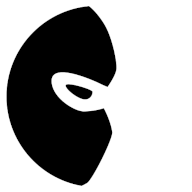
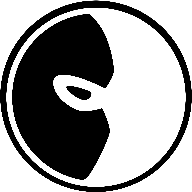
upd

diff --git a/src/views/Registration.vue b/src/views/Registration.vue
@@ -1,29 +1,31 @@
 <template>
     <div class="registration main-bg">
         
-        <div class="title">Speaky Ninja</div>
+        <div class="wrapper no-scrollbar">
+            <div class="title">Speaky.Ninja</div>
 
-        <div class="m-light m-gray mt-1">регистрация</div>
+            <div class="m-light m-gray mt-1">регистрация</div>
 
-        <div class="form">
-            <div class="row">
-                <div class="m-light ml-1 mb-1 m-size20">E-mail</div>
-                <input class="input" type="text" v-model="student.email">
+            <div class="form">
+                <div class="row">
+                    <div class="m-light ml-1 mb-1 m-size20">E-mail</div>
+                    <input class="input" type="text" v-model="student.email">
+                </div>
+
+                <div class="row">
+                    <div class="m-light ml-1 mb-1 m-size20">Пароль</div>
+                    <input class="input" type="password" v-model="student.password">
+                    <div class="m-red mt-2" v-if="error">{{ error }}</div>
+                </div>
+
+                <div class="btn green mt-1" @click="registration">Зарегистрироваться</div>
+                <div class="btn transparent mt-1" @click="login">Вход</div>
             </div>
 
-            <div class="row">
-                <div class="m-light ml-1 mb-1 m-size20">Пароль</div>
-                <input class="input" type="password" v-model="student.password">
-                <div class="m-red mt-2" v-if="error">{{ error }}</div>
+            <div class="mt-2 m-center">
+                <div class=" m-size16">Регистрируясь, вы принимаете</div>
+                <a href="https://speaky.ninja/agreement" target="_blank" class="m-underline m-size16">данные условия</a>
             </div>
-
-            <div class="btn green mt-1" @click="registration">Зарегистрироваться</div>
-            <div class="btn mt-1" @click="login">Вход</div>
-        </div>
-
-        <div class="mt-2 m-center">
-            <div class=" m-size16">Регистрируясь, вы принимаете</div>
-            <a href="https://speaky.ninja/agreement" target="_blank" class="m-underline m-size16">данные условия</a>
         </div>
         
     </div>
@@ -78,23 +80,33 @@
         align-items: center;
         justify-content: center;
         color: white;
-        padding: 60px 40px 20px 40px;
+        background-color: #272733 !important;
+        height: 100vh;
+        height: 100dvh;
         
-        .title {
-            font-size: 40px;
-            font-family: Light;
-            color: #ebebed;
-        }
-
-        .form {
-            margin-top: 80px;
+        .wrapper {
+            padding: 60px 40px 20px 40px;
+            width: 100%;
             display: flex;
             flex-direction: column;
-            gap: 20px;
-            width: 420px;
+            align-items: center;
 
-            .row {
-                .lable {
+            .title {
+                font-size: 40px;
+                font-family: Light;
+                color: #ebebed;
+            }
+
+            .form {
+                margin-top: 80px;
+                display: flex;
+                flex-direction: column;
+                gap: 20px;
+                width: 420px;
+
+                .row {
+                    .lable {
+                    }
                 }
             }
         }
@@ -102,9 +114,11 @@
 
     @media(max-width: 500px) {
         .registration {
-            .form {
-                min-width: 100%;
-                width: unset;
+            .wrapper {
+                .form {
+                    min-width: 100%;
+                    width: unset;
+                }
             }
 
         }

diff --git a/src/views/Login.vue b/src/views/Login.vue
@@ -1,29 +1,31 @@
 <template>
     <div class="login main-bg">
         
-        <div class="title">Speaky Ninja</div>
+        <div class="wrapper no-scrollbar">
+            <div class="title">Speaky.Ninja</div>
 
-        <div class="m-light m-gray mt-1">вход</div>
+            <div class="m-light m-gray mt-1">вход</div>
 
-        <div class="form">
-            <div class="row">
-                <div class="m-light ml-1 mb-1 m-size20">E-mail</div>
-                <input class="input" type="text" v-model="student.email">
+            <div class="form">
+                <div class="row">
+                    <div class="m-light ml-1 mb-1 m-size20">E-mail</div>
+                    <input class="input" type="text" v-model="student.email">
+                </div>
+
+                <div class="row">
+                    <div class="m-light ml-1 mb-1 m-size20">Пароль</div>
+                    <input class="input" type="password" v-model="student.password">
+                    <div class="m-red mt-2" v-if="error">{{ error }}</div>
+                </div>
+
+                <div class="btn green mt-1" @click="login">Войти</div>
+                <div class="btn transparent mt-1" @click="registration">Регистрация</div>
             </div>
 
-            <div class="row">
-                <div class="m-light ml-1 mb-1 m-size20">Пароль</div>
-                <input class="input" type="password" v-model="student.password">
-                <div class="m-red mt-2" v-if="error">{{ error }}</div>
+            <div class="mt-2 m-center">
+                <div class=" m-size16">Регистрируясь, вы принимаете</div>
+                <a href="https://speaky.ninja/agreement" target="_blank" class="m-underline m-size16">данные условия</a>
             </div>
-
-            <div class="btn green mt-1" @click="login">Войти</div>
-            <div class="btn mt-1" @click="registration">Регистрация</div>
-        </div>
-
-        <div class="mt-2 m-center">
-            <div class=" m-size16">Регистрируясь, вы принимаете</div>
-            <a href="https://speaky.ninja/agreement" target="_blank" class="m-underline m-size16">данные условия</a>
         </div>
         
     </div>
@@ -78,23 +80,33 @@
         align-items: center;
         justify-content: center;
         color: white;
-        padding: 60px 40px 20px 40px;
+        background-color: #272733 !important;
+        height: 100vh;
+        height: 100dvh;
         
-        .title {
-            font-size: 40px;
-            font-family: Light;
-            color: #ebebed;
-        }
-
-        .form {
-            margin-top: 80px;
+        .wrapper {
+            padding: 60px 40px 20px 40px;
+            width: 100%;
             display: flex;
             flex-direction: column;
-            gap: 20px;
-            width: 420px;
+            align-items: center;
 
-            .row {
-                .lable {
+            .title {
+                font-size: 40px;
+                font-family: Light;
+                color: #ebebed;
+            }
+
+            .form {
+                margin-top: 80px;
+                display: flex;
+                flex-direction: column;
+                gap: 20px;
+                width: 420px;
+
+                .row {
+                    .lable {
+                    }
                 }
             }
         }
@@ -102,9 +114,11 @@
 
     @media(max-width: 500px) {
         .login {
-            .form {
-                min-width: 100%;
-                width: unset;
+            .wrapper {
+                .form {
+                    min-width: 100%;
+                    width: unset;
+                }
             }
 
         }

diff --git a/src/views/Index.vue b/src/views/Index.vue
@@ -1,18 +1,20 @@
 <template>
     <div class="index main-bg">
         
-        <div class="title">Speaky Ninja</div>
-        <div class="mt-2 title2">слова запомнятся сами</div>
+        <div class="wrapper no-scrollbar">
+            <div class="title">Speaky.Ninja</div>
+            <div class="mt-2 title2">слова запомнятся сами</div>
 
-        <div class="buttons">
-            <div class="btn green" @click="toRegistration">Зарегистрироваться</div>
-            <div class="btn blue" @click="toLogin">Войти</div>
-            <div class="btn transparent" @click="toTest">Пропустить</div>
-        </div>
+            <div class="buttons">
+                <div class="btn green" @click="toRegistration">Зарегистрироваться</div>
+                <div class="btn blue" @click="toLogin">Войти</div>
+                <div class="btn transparent" @click="toTest">Пропустить</div>
+            </div>
 
-        <div class="mt-2 m-center">
-            <div class=" m-size16">Продолжая, вы принимаете</div>
-            <a href="https://speaky.ninja/agreement" target="_blank" class="m-underline m-size16">данные условия</a>
+            <div class="mt-2 m-center">
+                <div class=" m-size16">Продолжая, вы принимаете</div>
+                <a href="https://speaky.ninja/agreement" target="_blank" class="m-underline m-size16">данные условия</a>
+            </div>
         </div>
         
         <NoticeLayer 
@@ -90,38 +92,49 @@
         align-items: center;
         justify-content: center;
         color: white;
-        padding: 60px 40px 20px 40px;
-        min-height: 100%;
-        background-color: #272733;
-        
-        .title {
-            font-size: 40px;
-            font-family: Light;
-            color: #ebebed;
-        }
+        background-color: #272733 !important;
+        height: 100vh;
+        height: 100dvh;
 
-        .title2 {
-            font-size: 16px;
-            color: #ebebed;
-            letter-spacing: 2px;
-        }
-
-        .buttons {
-            margin-top: 140px;
+        .wrapper {
+            padding: 60px 40px 20px 40px;
+            width: 100%;
             display: flex;
             flex-direction: column;
-            gap: 20px;
-            width: 420px;
+            align-items: center;
+
+            .title {
+                font-size: 40px;
+                font-family: Light;
+                color: #ebebed;
+            }
+
+            .title2 {
+                font-size: 16px;
+                color: #ebebed;
+                letter-spacing: 2px;
+            }
+
+            .buttons {
+                margin-top: 140px;
+                display: flex;
+                flex-direction: column;
+                gap: 20px;
+                width: 420px;
+            }
         }
+        
     }
 
     @media(max-width: 500px) {
         .index {
-            .buttons {
-                min-width: 100%;
-                width: unset;
-            }
+            .wrapper {
+                .buttons {
+                    min-width: 100%;
+                    width: unset;
+                }
 
+            }
         }
     }
 

diff --git a/src/services/PwaInstallService.js b/src/services/PwaInstallService.js
@@ -12,10 +12,6 @@ class PwaInstallService {
     }
 
     initEventListeners() {
-        if(this.isPwaInstalled()) {
-            return false;
-        }
-
         window.addEventListener('beforeinstallprompt', (e) => {
             e.preventDefault();
             this.deferredPrompt = e;
@@ -23,7 +19,6 @@ class PwaInstallService {
         
         window.addEventListener('appinstalled', () => {
             this.deferredPrompt = null;
-            localStorage.setItem('pwaInstalled', true);
         });
     }
 
@@ -36,15 +31,11 @@ class PwaInstallService {
             return true;
         }
         
-        return localStorage.getItem('pwaInstalled');
+        return !this.deferredPrompt;
     }
 
     needShowNotice(statService) {
-        if(
-            !this.deferredPrompt || 
-            this.isPwaInstalled() || 
-            localStorage.getItem('pwaInstallNoticeShown')
-        ) {
+        if(this.isPwaInstalled() || localStorage.getItem('pwaInstallNoticeShown')) {
             return false;
         }
 

diff --git a/index.html b/index.html
@@ -11,15 +11,16 @@
         <!-- End Google Tag Manager -->
         
         <meta charset="UTF-8">
-        <link rel="icon" href="/pwa.svg">
+        <link rel="icon" href="/icon.svg">
         <meta name="viewport" content="width=device-width, initial-scale=1.0">
-        <title>Speaky Ninja</title>
+        <title>Speaky.Ninja</title>
         
         <link rel="manifest" href="/manifest.json">
         <meta name="mobile-web-app-capable" content="yes">
         <meta name="apple-mobile-web-app-status-bar-style" content="black">
-        <meta name="apple-mobile-web-app-title" content="EnglishApp">
+        <meta name="apple-mobile-web-app-title" content="Speaky.Ninja">
         <link rel="apple-touch-icon" href="/pwa-512x512.png">
+        <meta name='theme-color' content="#30313f">
     </head>
     <body>
 

diff --git a/dev-dist/sw.js b/dev-dist/sw.js
@@ -79,7 +79,7 @@ define(['./workbox-b5f7729d'], (function (workbox) { 'use strict';
    */
   workbox.precacheAndRoute([{
     "url": "index.html",
-    "revision": "0.as99aehe9sg"
+    "revision": "0.acjnfi4pg2g"
   }], {});
   workbox.cleanupOutdatedCaches();
   workbox.registerRoute(new workbox.NavigationRoute(workbox.createHandlerBoundToURL("index.html"), {
